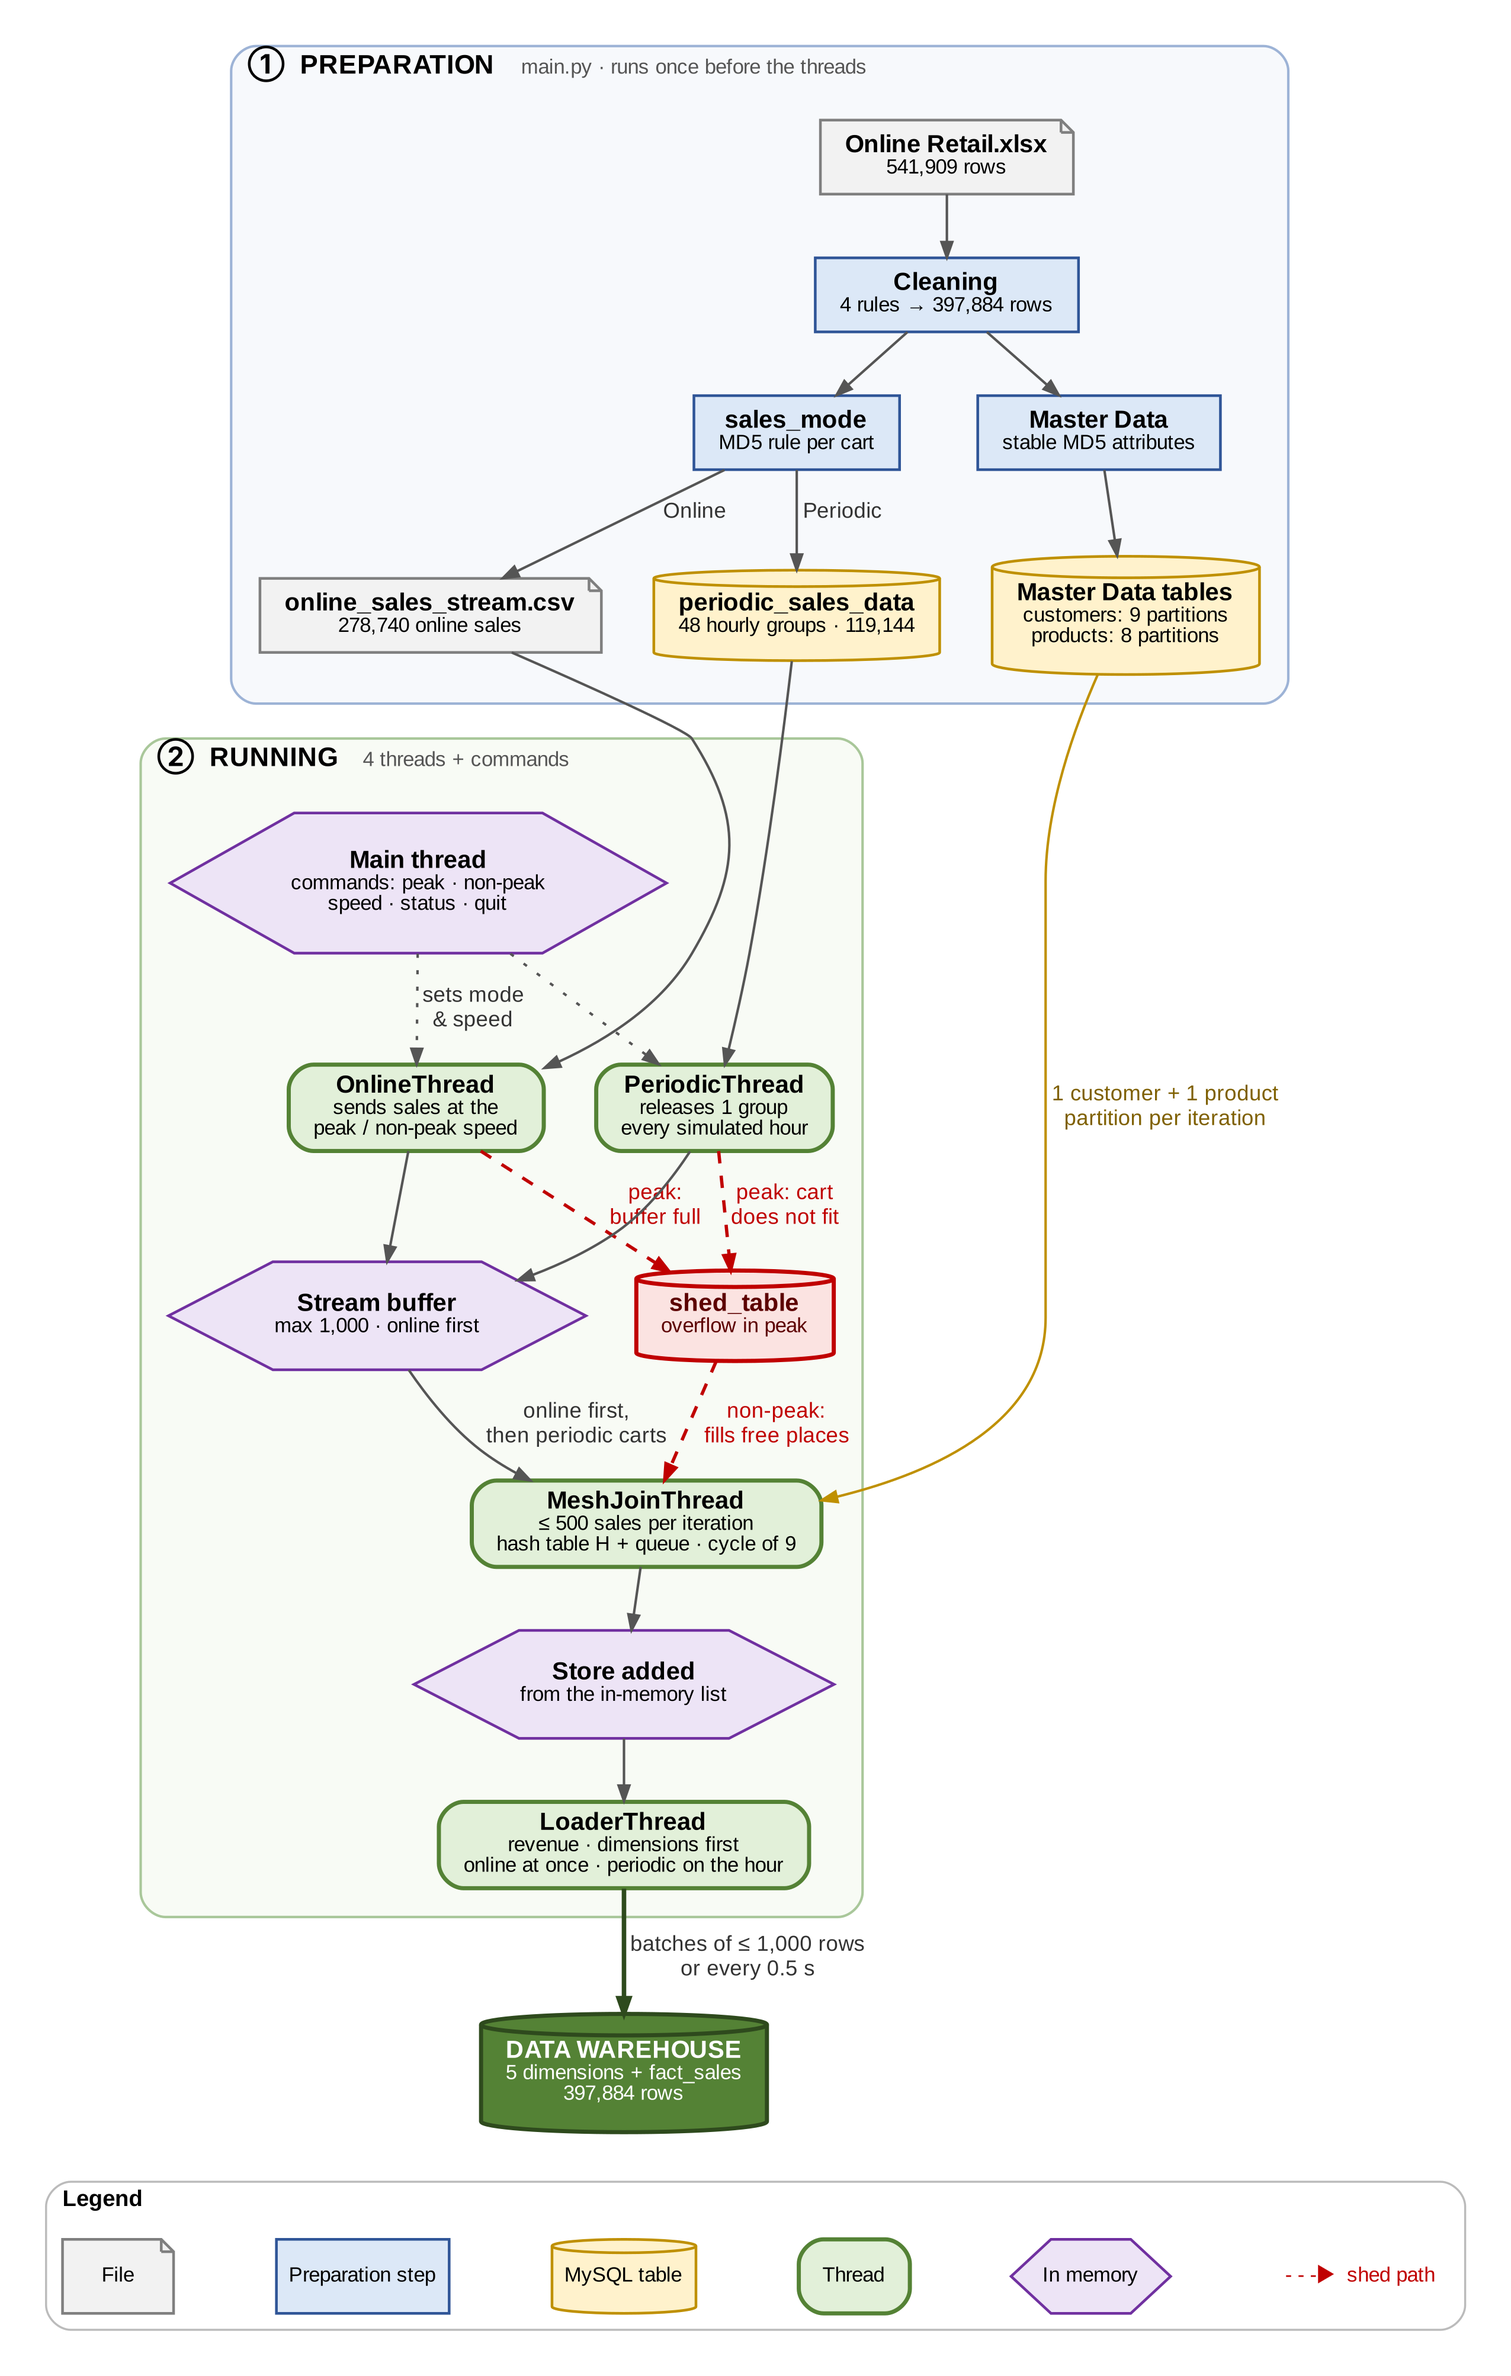
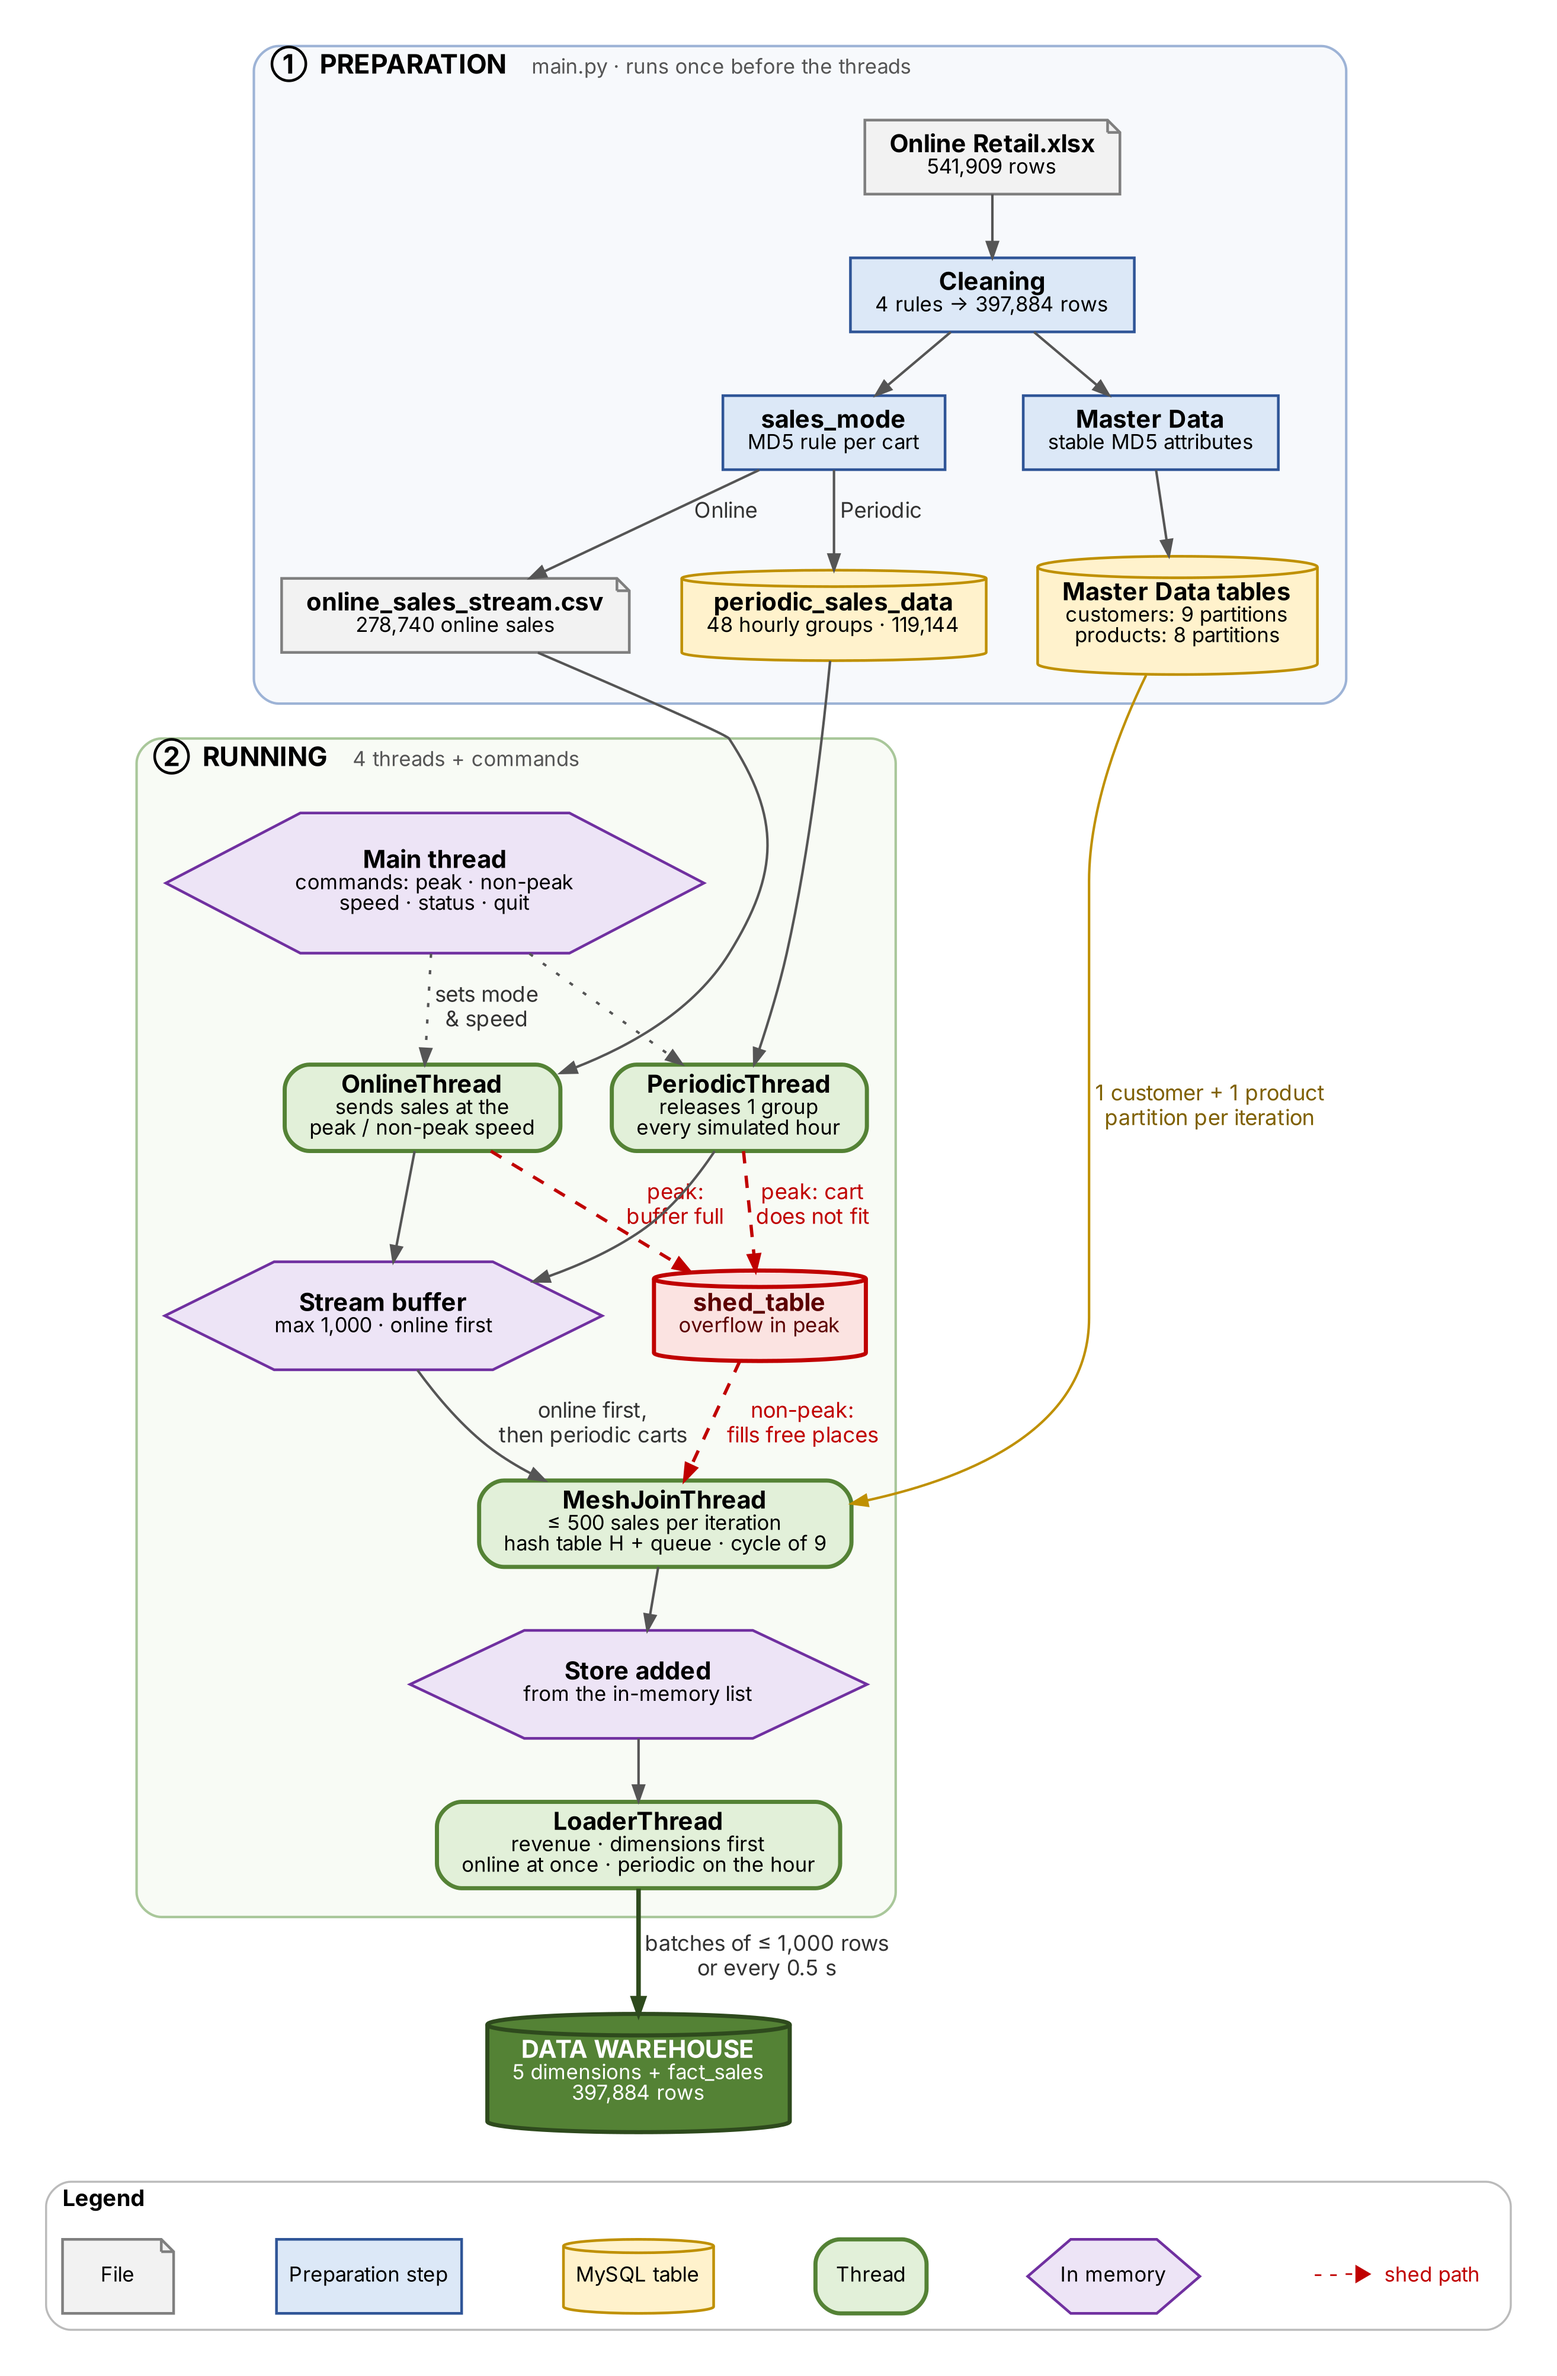
Use Times New Roman in all report figures

diff --git a/docs/schema_diagram.py b/docs/schema_diagram.py
@@ -116,7 +116,7 @@ def html():
     view = (f'<div class="vw" style="left:{vx}px;top:{vy}px;width:{W_BOX}px">'
             f'<span class="ti">&#9638;</span>{VIEW[0]} <i>(view)</i></div>')
     return f"""<!doctype html><html><head><meta charset="utf-8"><style>
-body{{margin:0;background:#fff;font-family:Tahoma,Verdana,"DejaVu Sans",sans-serif}}
+body{{margin:0;background:#fff;font-family:"Times New Roman",Times,serif}}
 #c{{position:relative;width:1500px;height:900px;background:#fff}}
 .band{{position:absolute;left:20px;top:600px;width:1460px;height:285px;border:1px dashed #9AA9BA;border-radius:6px;background:#FAFBFD}}
 .lab{{position:absolute;font-size:13px;font-weight:bold;color:#3B4A5C}}
